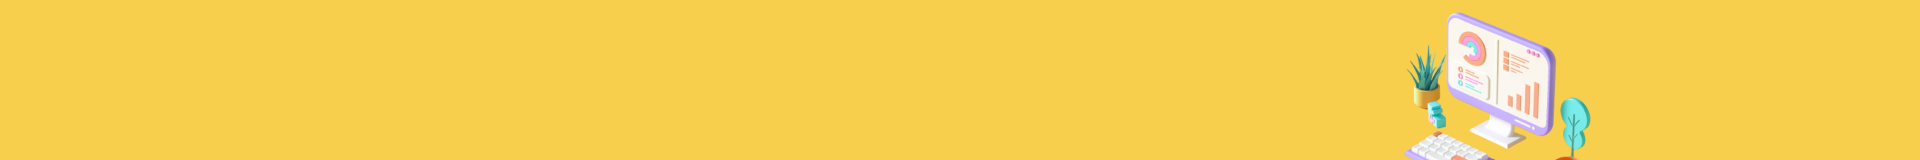
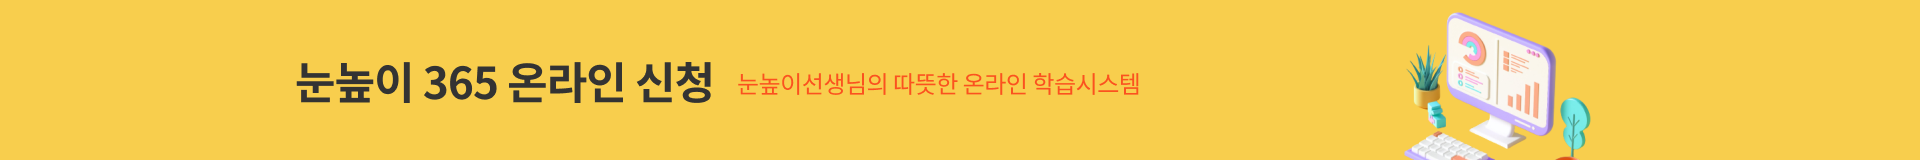
띠배너 추가

Changed region(s): [[0.1562, 0.375, 0.5938, 0.6562]]

diff --git a/src/components/ServiceContainer.tsx b/src/components/ServiceContainer.tsx
@@ -1,4 +1,5 @@
 import styled from "styled-components";
+import banner from "../assets/img/banner.png";
 
 export const ServiceContainer = () => {
   return (
@@ -91,6 +92,11 @@ export const ServiceContainer = () => {
           </li>
         </ul>
       </SlideCont>
+      <BannerWrap>
+        <a>
+          <img src={banner} />
+        </a>
+      </BannerWrap>
     </ServiceContWrap>
   );
 };
@@ -99,11 +105,10 @@ const ServiceContWrap = styled.section`
   display: flex;
   flex-flow: column nowrap;
   width: 100%;
-  height: 685px;
   justify-content: flex-start;
   align-items: center;
   position: relative;
-  padding: 20px 0 50px;
+  padding: 20px 0 0;
   background-size: auto;
   background-position: top;
   background-repeat: no-repeat;
@@ -116,7 +121,7 @@ const BtnWrap = styled.div`
   flex-flow: row nowrap;
   justify-content: space-between;
   position: absolute;
-  top: 55%;
+  top: 40%;
   left: 50%;
   transform: translate(-50%, 0);
   z-index: 1;
@@ -263,9 +268,21 @@ const SlideCont = styled.div`
           }
         }
         &:active {
-          transform: scale(0.99);
+          transform: scale(0.99) translateY(-15px);
         }
       }
+    }
+  }
+`;
+
+const BannerWrap = styled.div`
+  width: 100%;
+  padding: 50px 0;
+  background-color: #fff6f6;
+  a {
+    width: 100%;
+    img {
+      width: 100%;
     }
   }
 `;
